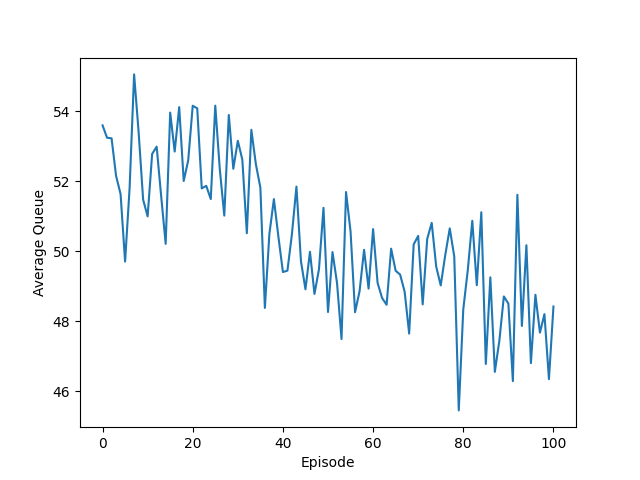
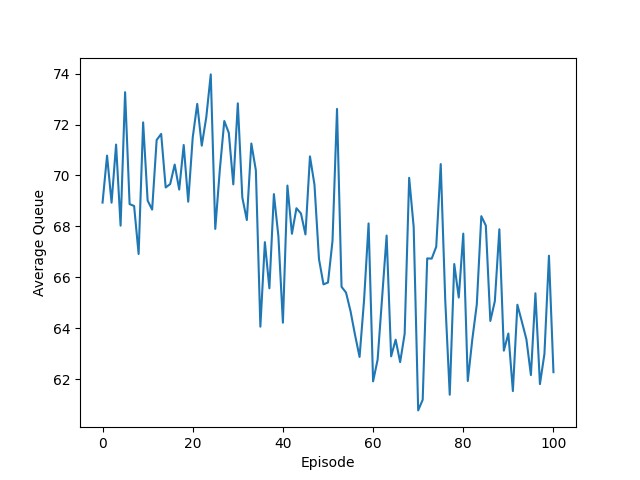
fixed test.py

diff --git a/test.py b/test.py
@@ -24,7 +24,7 @@ flags.DEFINE_float('eps_start', 1.0, '')
 flags.DEFINE_float('eps_end', 0.1, '')
 flags.DEFINE_integer('eps_decay', 83000, '')
 flags.DEFINE_integer('target_update', 3000, '')
-flags.DEFINE_string('network_file', 'weights/weights_20250124_600.pth', '')
+flags.DEFINE_string('network_file', 'weights/weights_20250124_100.pth', '')
 flags.DEFINE_float('gamma', 0.95, '')
 flags.DEFINE_integer('batch_size', 32, '')
 flags.DEFINE_bool('use_sgd', True, 'Training with the optimizer SGD or RMSprop')
@@ -81,7 +81,8 @@ def main(argv):
                 else:
                     agent.learn_gamma()
 
-            episode_rewards += reward
+            if reward is not None:
+                episode_rewards += reward
 
         avg_waiting_times.append(env.compute_average_waiting_time())
         total_rewards.append(episode_rewards)
